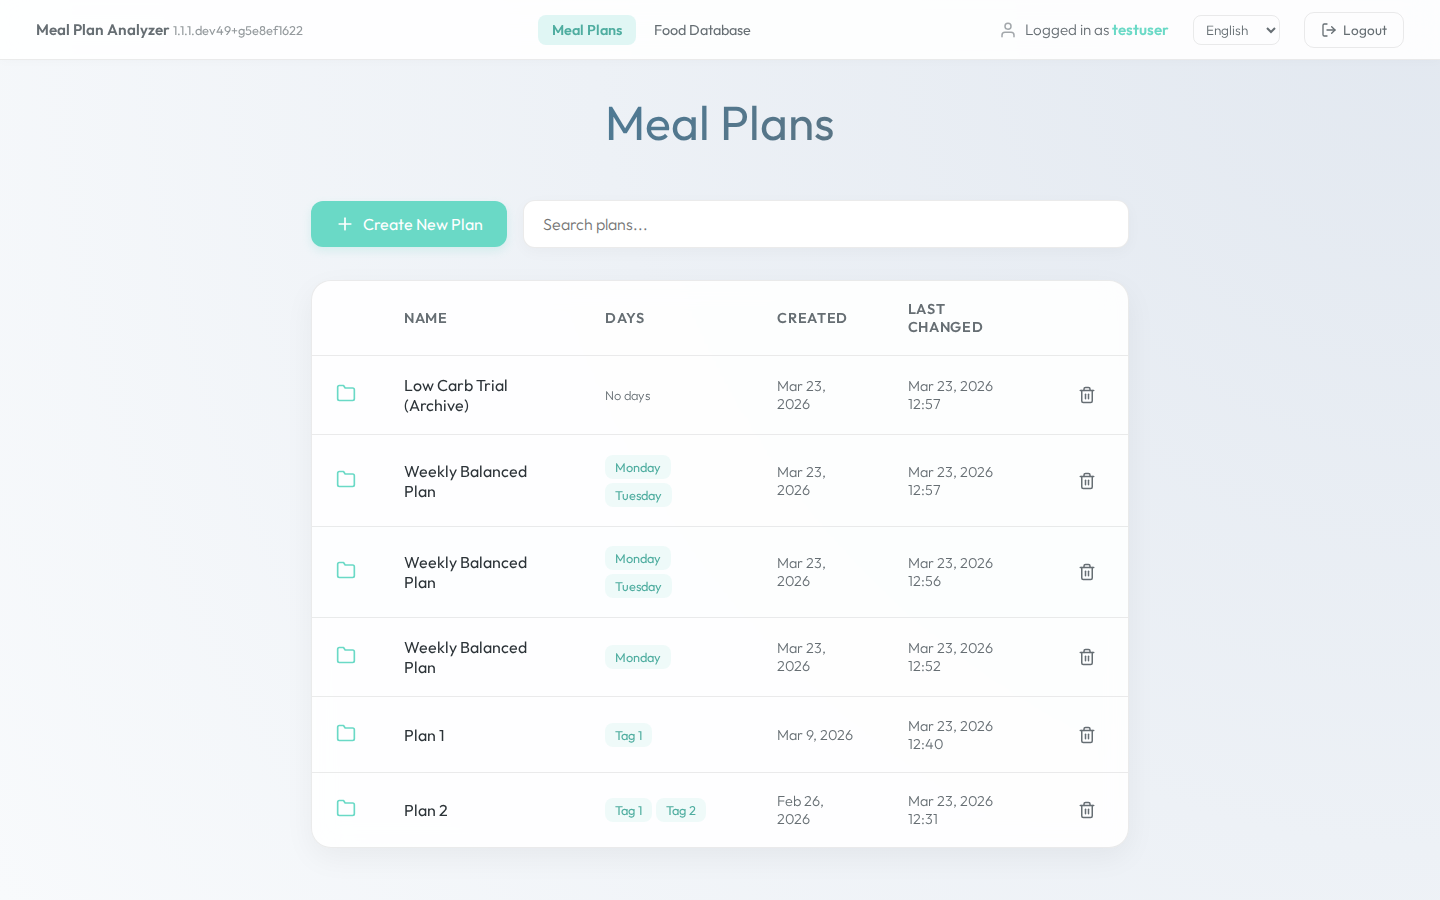
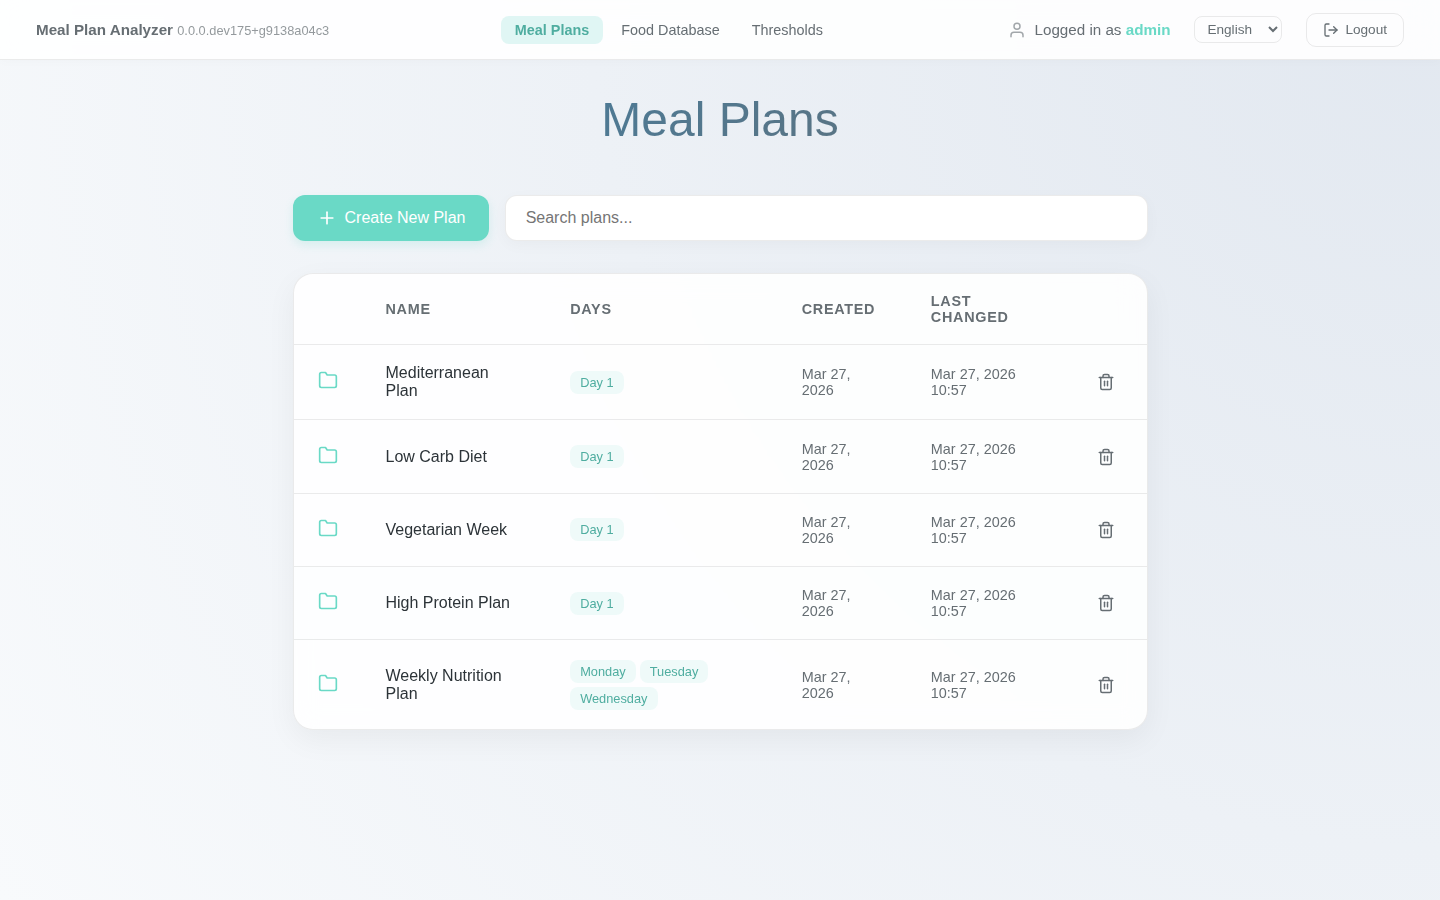
Update website screenshots and add threshold preset editor showcase
- Retake all existing screenshots (dashboard, meal plan edit, PDF preview)
  with the current UI using real data
- Add new threshold_preset_editor.png and threshold_preset_list.png
- Add "Reusable Threshold Presets" showcase section to docs/index.html
  featuring the threshold preset editor screenshot
- Update nutrient count from 24 → 26 (Water and Molybdenum were missing)
- Add Water and Molybdenum to the nutrients grid

https://claude.ai/code/session_019QpZE6sszE8hNtUGd4KaHD

diff --git a/docs/index.html b/docs/index.html
@@ -353,7 +353,7 @@
     <div class="feature-card">
       <div class="feature-icon">🔬</div>
       <h3>Deep Nutritional Analysis</h3>
-      <p>Track 24 nutrients per day — energy, macros, 9 vitamins, and 7 minerals — all calculated automatically per gram.</p>
+      <p>Track 26 nutrients per day — energy, water, macros, 9 vitamins, and 7 minerals — all calculated automatically per gram.</p>
     </div>
     <div class="feature-card">
       <div class="feature-icon">🎯</div>
@@ -422,6 +422,19 @@
        <img src="assets/meal_plan_preview.png" alt="PDF Export Preview" loading="lazy">
     </div>
   </div>
+
+  <div class="showcase-item reverse">
+    <div class="showcase-text">
+       <h3>Reusable Threshold Presets</h3>
+       <p>Define named nutrient targets once — for example "Athlete", "Senior", or "Weight Loss" — and apply them to any meal plan in a single click. Each preset sets precise minimum and maximum values across all 24 tracked nutrients.</p>
+    </div>
+    <div class="showcase-image">
+       <div class="mock-browser-bar slim">
+         <div class="mock-dot"></div><div class="mock-dot"></div><div class="mock-dot"></div>
+       </div>
+       <img src="assets/threshold_preset_editor.png" alt="Threshold Preset Editor" loading="lazy">
+    </div>
+  </div>
 </section>
 
 <!-- HOW IT WORKS -->
@@ -453,11 +466,12 @@
 <!-- NUTRIENTS -->
 <section class="section nutrients-section" id="nutrients">
   <p class="section-label">Coverage</p>
-  <h2 class="section-title">24 nutrients tracked</h2>
+  <h2 class="section-title">26 nutrients tracked</h2>
   <p class="section-sub">Every entry from the German Bundeslebensmittelschlüssel (BLS) database — the gold standard for food composition data.</p>
 
   <div class="nutrients-grid">
     <div class="nutrient-chip"><strong>Energy</strong><span>kcal / kJ</span></div>
+    <div class="nutrient-chip"><strong>Water</strong><span>g</span></div>
     <div class="nutrient-chip"><strong>Protein</strong><span>g</span></div>
     <div class="nutrient-chip"><strong>Fat</strong><span>g</span></div>
     <div class="nutrient-chip"><strong>Omega-3</strong><span>g</span></div>
@@ -481,6 +495,7 @@
     <div class="nutrient-chip"><strong>Iodine</strong><span>µg</span></div>
     <div class="nutrient-chip"><strong>Copper</strong><span>µg</span></div>
     <div class="nutrient-chip"><strong>Manganese</strong><span>µg</span></div>
+    <div class="nutrient-chip"><strong>Molybdenum</strong><span>µg</span></div>
   </div>
 </section>
 
